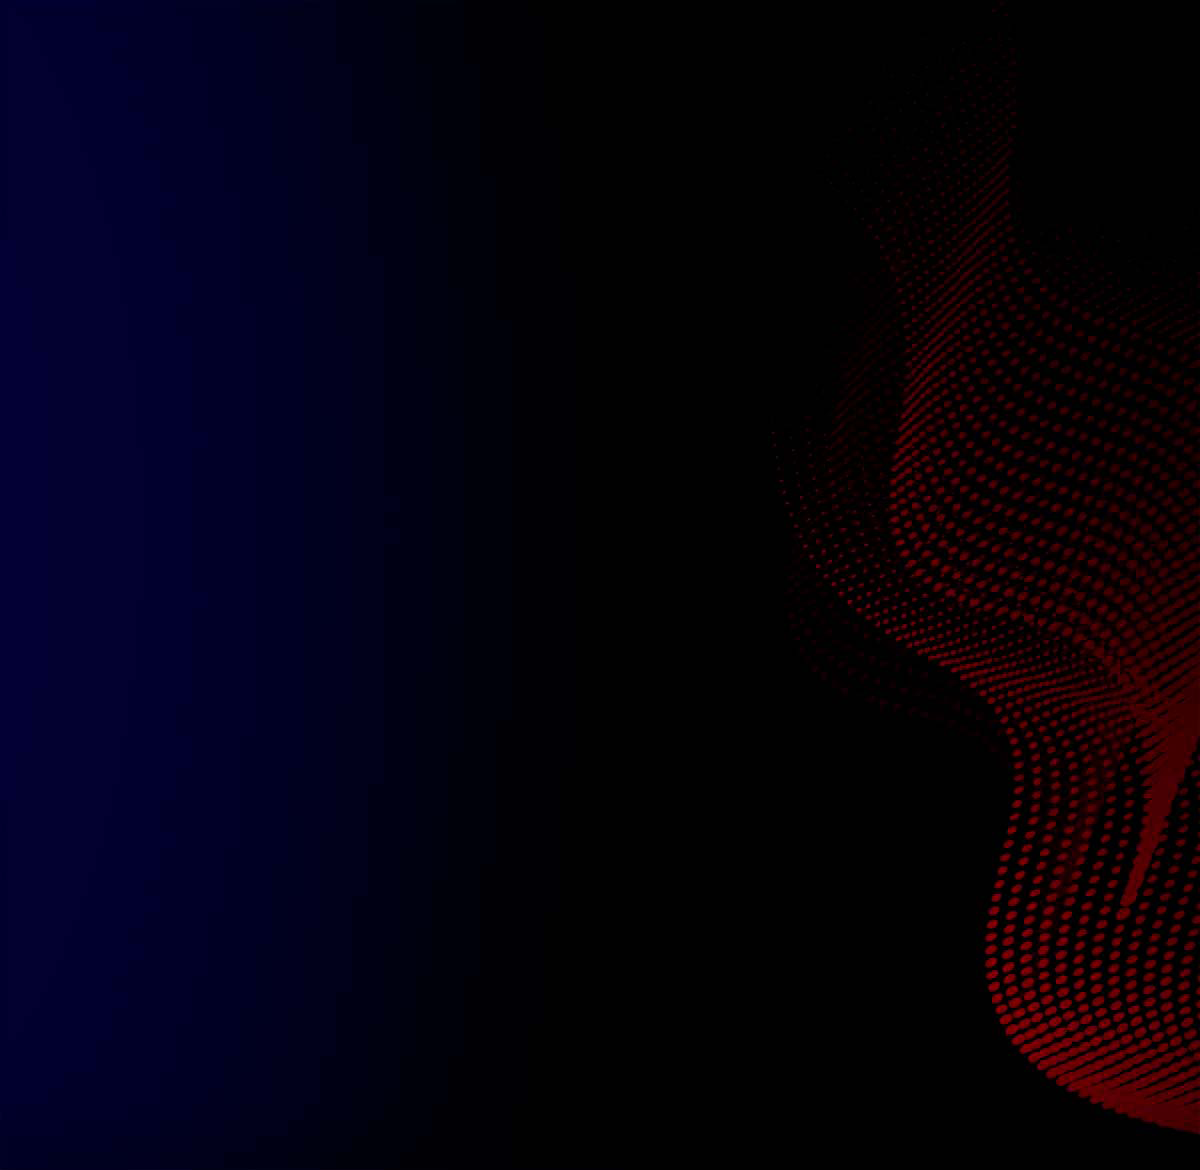
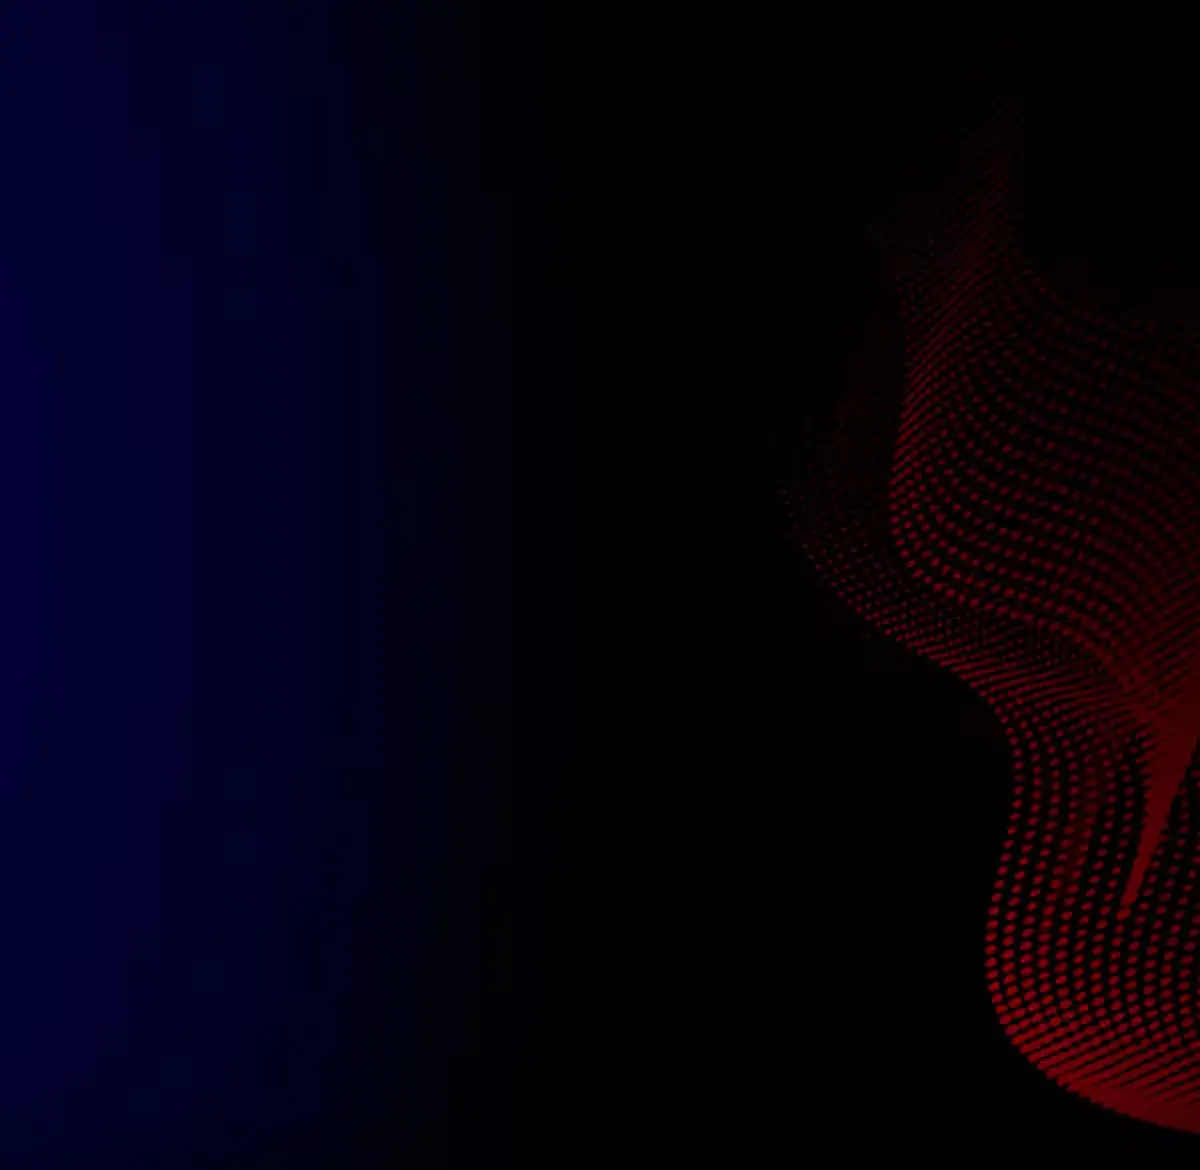
try deploy again

diff --git a/src/components/Menu/Menu.jsx b/src/components/Menu/Menu.jsx
@@ -57,9 +57,7 @@ export function Menu () {
                   </NavDropdown.Item>
 
                   <NavDropdown.Item
-                    href={i18n.language === 'en'
-                      ? '/files/MANUAL ITM 2023_INGLES rellenable.pdf'
-                      : '/files/ESP-MANUAL-ITM-2023_compressed.pdf'}
+                    href='/files/ESP-MANUAL-ITM-2023_compressed.pdf'
                     target='_blank'
                     onClick={handleClose}
                   >

diff --git a/src/components/constants_gallery.js b/src/components/constants_gallery.js
@@ -1,10 +1,10 @@
 const galleryHome = [
-  '/gallery/home/homegaleria2022_1.avif',
+  '/gallery/home/homegaleria2022_1.webp',
   '/gallery/home/homegaleria2022_2.webp',
-  '/gallery/home/homegaleria2022_3.avif',
+  '/gallery/home/homegaleria2022_3.webp',
   '/gallery/home/homegaleria2022_4.webp',
   '/gallery/home/homegaleria2022_5.webp',
-  '/gallery/home/homegaleria2022_6.avif'
+  '/gallery/home/homegaleria2022_6.webp'
 ]
 
 const gallery2019 = [

diff --git a/src/components/Home/Home.css b/src/components/Home/Home.css
@@ -85,7 +85,7 @@ h3 {
     place-items: center;
 }
 .home-contactos {
-    background-image: url('/bgcontactos.avif');
+    background-image: url('/bgcontactos.webp');
     background-size: cover;
     color: white;
 }
